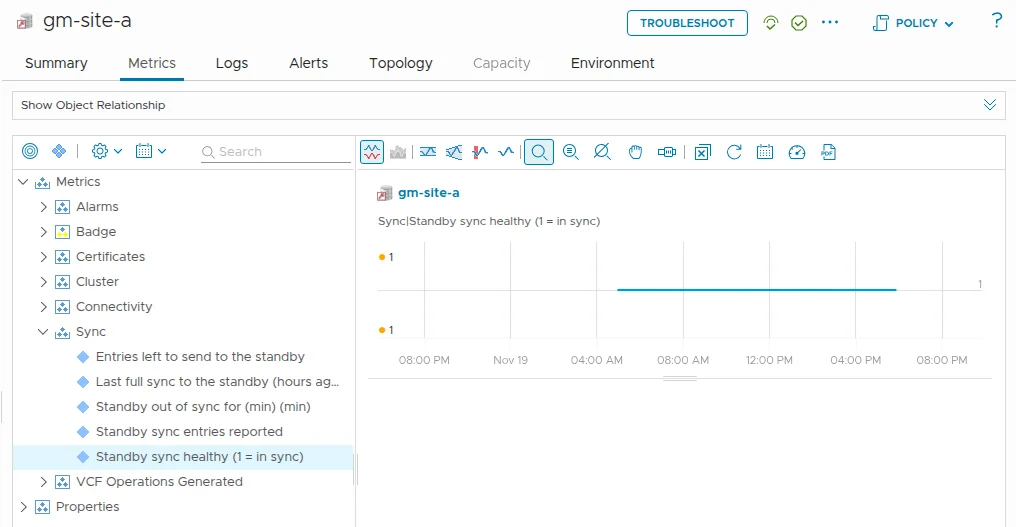
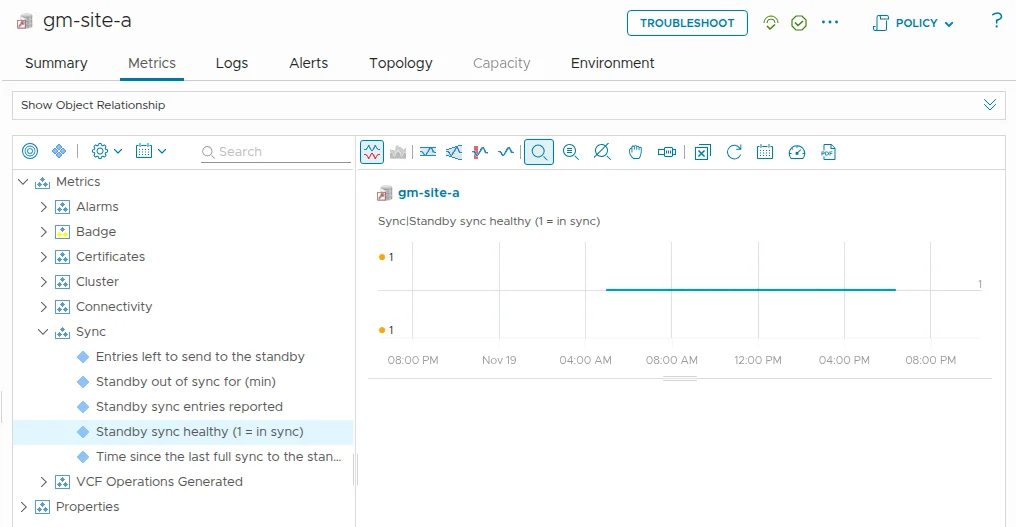
NSX Federation pack posts: version 1.7.4, corrections from the last independent review (EN/FR)
Claude-Session: https://claude.ai/code/session_01SphbqC1vQAcUKnbf7d1FJA

diff --git a/content/posts/nsx-federation-management-pack-install/index.fr.md b/content/posts/nsx-federation-management-pack-install/index.fr.md
@@ -1,7 +1,7 @@
 ---
 title: "Superviser NSX Federation dans VCF Operations, partie 2 : construction, installation et données collectées par le pack"
 date: 2026-11-18
-description: "Partie 2 du management pack NSX Federation pour VCF Operations 9.1.1 : l'adaptateur construit avec l'Integration SDK, l'installation pas à pas avec captures d'écran (registre en HTTPS, approbation du certificat sur le proxy cloud, pack non signé, compte), et ce que le pack supervise sur une fédération de lab à deux emplacements : 72 objets, 444 métriques, 63 définitions d'alerte, quatre groupes personnalisés, trois tableaux de bord, cinq vues et un rapport. L'article couvre aussi un basculement de Global Manager et l'envoi des alertes par e-mail."
+description: "Partie 2 du management pack NSX Federation pour VCF Operations 9.1.1 : l'adaptateur construit avec l'Integration SDK, l'installation pas à pas avec captures d'écran (registre en HTTPS, approbation du certificat sur le proxy cloud, pack non signé, compte), et ce que le pack supervise sur une fédération de lab à deux emplacements : 72 objets, 447 métriques, 63 définitions d'alerte, quatre groupes personnalisés, trois tableaux de bord, cinq vues et un rapport. L'article couvre aussi un basculement de Global Manager et l'envoi des alertes par e-mail."
 summary: "L'adaptateur collecte les données d'une fédération NSX 9.1 à deux emplacements en 10 à 25 secondes. Pour qu'il fonctionne dans VCF Operations 9.1.1, il faut un registre d'images servi en HTTPS, un proxy cloud qui approuve le certificat du registre et le réglage qui autorise un pack non signé. Cet article détaille chaque étape de l'installation avec des captures d'écran, liste ce que supervise le pack (objets, métriques, alertes, groupes, tableaux de bord, vues), teste un basculement de Global Manager et montre comment envoyer les alertes par e-mail."
 tags: ["VCF 9.1.1", "NSX Federation", "VCF Operations", "Management pack", "Integration SDK", "Holodeck"]
 categories: ["Notes"]
@@ -12,7 +12,7 @@ params:
   seoDescription: "Construire et installer un management pack NSX Federation sur mesure dans VCF Operations 9.1.1 : registre HTTPS, approbation du certificat, pack non signé, puis objets, métriques, alertes, groupes, tableaux de bord et vues qu'il fournit."
 ---
 
-La [partie 1](/fr/posts/nsx-federation-management-pack-design/) s'achevait sur une conception, sans une ligne de code. Cet article décrit la construction du pack, son installation dans VCF Operations 9.1.1 avec des captures d'écran, ce que le pack supervise (objets, métriques, alertes, groupes, tableaux de bord, vues), un basculement de Global Manager et l'envoi des alertes par e-mail. Le pack décrit ici est la version 1.7.3, et son code source est sur GitHub : [sorinplaton/vcf-ops-nsx-federation-mp](https://github.com/sorinplaton/vcf-ops-nsx-federation-mp). [docs/FEATURES.md](https://github.com/sorinplaton/vcf-ops-nsx-federation-mp/blob/v1.7.3/docs/FEATURES.md) (en anglais) liste chaque type d'objet, métrique, propriété et alerte du pack, avec la condition et la recommandation de chaque alerte. L'écriture de l'adaptateur a demandé moins de temps que son installation : trois contrôles distincts de VCF Operations séparaient le fichier `.pak` d'une collecte opérationnelle.
+La [partie 1](/fr/posts/nsx-federation-management-pack-design/) s'achevait sur une conception, sans une ligne de code. Cet article décrit la construction du pack, son installation dans VCF Operations 9.1.1 avec des captures d'écran, ce que le pack supervise (objets, métriques, alertes, groupes, tableaux de bord, vues), un basculement de Global Manager et l'envoi des alertes par e-mail. Le pack décrit ici est la version 1.7.4, et son code source est sur GitHub : [sorinplaton/vcf-ops-nsx-federation-mp](https://github.com/sorinplaton/vcf-ops-nsx-federation-mp). [docs/FEATURES.md](https://github.com/sorinplaton/vcf-ops-nsx-federation-mp/blob/v1.7.4/docs/FEATURES.md) (en anglais) liste chaque type d'objet, métrique, propriété et alerte du pack, avec la condition et la recommandation de chaque alerte. L'écriture de l'adaptateur a demandé moins de temps que son installation : trois contrôles distincts de VCF Operations séparaient le fichier `.pak` d'une collecte opérationnelle.
 
 ## Le lab
 
@@ -35,13 +35,13 @@ L'adaptateur tient en deux fichiers Python :
 - `nsxclient.py` : un client REST NSX en lecture seule, avec pagination par curseur, quota d'appels par manager, nouvelle tentative après attente sur les codes HTTP 429 et 503, contrôle du certificat par empreinte SHA-256 et petit cache sur disque pour les données qui changent peu.
 - `adapter.py` : le modèle d'objets, la logique de collecte et les événements.
 
-L'instance d'adaptateur reçoit une ou deux adresses de Global Manager et un seul jeu d'identifiants. Elle découvre les Local Managers à partir du Global Manager et compare le certificat de chacun d'eux à l'empreinte que le Global Manager a déjà enregistrée. Un Global Manager est approuvé d'après le certificat accepté sur le compte dans VCF Operations. Une fois un certificat vérifié, chaque connexion du cycle est liée à son empreinte : les identifiants ne sont donc pas envoyés à un serveur qui présente un autre certificat. Ce contrôle a deux modes : « enforce » arrête la collecte d'un manager dont le certificat ne correspond pas ou pour lequel aucun certificat approuvé n'est enregistré, « report » poursuit la collecte et déclenche une alerte. Le mode par défaut est « enforce » : les certificats des Global Managers doivent être acceptés lorsque le compte valide la connexion, faute de quoi les managers ne sont pas collectés. Le compte du lab a été créé par l'API, n'a aucun certificat accepté et fonctionne en mode « report ». Le compte accepte aussi un jeu d'identifiants distinct pour les Local Managers. Le pack ne fait que lire dans NSX, et un compte en lecture seule suffit. Le compte du lab utilise le compte intégré `audit` de NSX sur les quatre managers et collecte les mêmes objets qu'avec `admin`, sans aucun appel en échec.
+L'instance d'adaptateur reçoit une ou deux adresses de Global Manager et un seul jeu d'identifiants. Elle découvre les Local Managers à partir du Global Manager et compare le certificat de chacun d'eux à l'empreinte que le Global Manager a déjà enregistrée. Un Global Manager est approuvé d'après le certificat accepté sur le compte dans VCF Operations. Une fois un certificat vérifié, chaque connexion du cycle est liée à son empreinte : les identifiants ne sont donc pas envoyés à un serveur qui présente un autre certificat.
 
 Un compte supervise une seule fédération. Un Global Manager de la liste qui répond pour une autre fédération est signalé et écarté, et un paramètre facultatif désigne l'objet fédération lorsque VCF Operations en supervise plusieurs.
 
 Un pack SDK n'est pas autonome. Le fichier `.pak` contient les définitions d'objets et une référence à une image de conteneur. Le proxy cloud récupère cette image dans un registre au démarrage de l'instance d'adaptateur.
 
-`mp-build` construit le pack. Avec une adresse de registre de la forme `host:port`, il a inscrit Docker Hub dans le pack. Un court script réécrit deux valeurs, `REGISTRY` et `REPOSITORY`, dans le fichier `.conf` que contient `adapter.zip` :
+`mp-build` construit le pack. Avec une adresse de registre de la forme `host:port`, il a inscrit Docker Hub dans le pack. Un court script, `tools/repack.py`, réécrit deux valeurs, `REGISTRY` et `REPOSITORY`, dans le fichier `.conf` que contient `adapter.zip` :
 
 ```
 REGISTRY=10.0.6.27:5000
@@ -135,15 +135,17 @@ L'ouverture de session sur l'interface principale (point 2) doit suivre celle su
 
 L'option ne peut pas être désactivée pendant l'installation. Lors d'une mise à niveau, la console d'administration a répondu `Cluster is in PAK installing state` jusqu'à la fin de l'installation. Un script doit donc répéter le dernier appel.
 
-Ces appels sont internes à l'interface : ils ne sont pas pris en charge et peuvent changer à chaque version. Quant à l'option des packs non signés, elle vaut pour toute l'instance ; dans le lab, elle n'est restée activée que le temps de l'envoi.
+Ces appels sont internes à l'interface : ils ne sont pas pris en charge et peuvent changer à chaque version. Quant à l'option des packs non signés, elle vaut pour toute l'instance ; dans le lab, elle n'est restée activée que le temps de l'envoi. Le dépôt contient ces étapes sous la forme des scripts `install/upi.sh` et `install/install_unsigned.sh`.
 
 Après l'installation, le type d'adaptateur `NSXFederation` et la solution `iSDK_NSXFederation` apparaissent dans VCF Operations. Le pack figure, avec sa version, sous « Administration > Integrations > Repository » :
 
-![Administration > Integrations > Repository avec le filtre « Federation » : le pack NSX Federation, en version 1.7.3, avec un compte](/images/nsx-federation-mp/ops-repository-pack.webp)
+![Administration > Integrations > Repository : le pack NSX Federation, en version 1.7.4, avec un compte](/images/nsx-federation-mp/ops-repository-pack.webp)
 
 ### Étape 4 : créer le compte
 
-L'instance d'adaptateur, appelée compte dans l'interface, se crée sur le proxy cloud. Elle reçoit une ou deux adresses de Global Manager et un seul jeu d'identifiants. Avec les deux adresses, le pack suit le rôle actif lorsque les Global Managers basculent. Les autres réglages sont facultatifs : les stratégies de sécurité dont les règles deviennent des objets, la façon dont le pack fonctionne avec l'intégration NSX native (liens et alertes d'alarme, automatiques par défaut), et la suppression des objets qui ont quitté NSX (désactivée par défaut). [docs/OPERATIONS.md](https://github.com/sorinplaton/vcf-ops-nsx-federation-mp/blob/v1.7.3/docs/OPERATIONS.md) (en anglais) décrit chaque réglage.
+L'instance d'adaptateur, appelée compte dans l'interface, se crée sur le proxy cloud. Elle reçoit une ou deux adresses de Global Manager et un seul jeu d'identifiants. Avec les deux adresses, le pack suit le rôle actif lorsque les Global Managers basculent. Les autres réglages sont facultatifs : les stratégies de sécurité dont les règles deviennent des objets, la façon dont le pack fonctionne avec l'intégration NSX native (liens et alertes d'alarme, automatiques par défaut), et la suppression des objets qui ont quitté NSX (désactivée par défaut). [docs/OPERATIONS.md](https://github.com/sorinplaton/vcf-ops-nsx-federation-mp/blob/v1.7.4/docs/OPERATIONS.md) (en anglais) décrit chaque réglage.
+
+À l'enregistrement du compte, valider la connexion et accepter les certificats des Global Managers. Ce contrôle a deux modes : « enforce » arrête la collecte d'un manager dont le certificat ne correspond pas ou pour lequel aucun certificat approuvé n'est enregistré, « report » poursuit la collecte et déclenche une alerte. Le mode par défaut est « enforce » : sans certificat accepté, les managers ne sont pas collectés. Le compte du lab a été créé par l'API, n'a aucun certificat accepté et fonctionne en mode « report ». Le compte accepte aussi un jeu d'identifiants distinct pour les Local Managers. Le pack ne fait que lire dans NSX, et un compte en lecture seule suffit. Le compte du lab utilise le compte intégré `audit` de NSX sur les quatre managers et collecte les mêmes objets qu'avec `admin`, sans aucun appel en échec.
 
 Le registre étant approuvé, le proxy cloud a récupéré l'image au démarrage suivant de l'instance, qui est passée à l'état `STARTED`, puis `DATA_RECEIVING`. L'onglet « Accounts » affiche l'instance avec l'état « Collecting » :
 
@@ -169,11 +171,11 @@ Une modification de la façon dont l'adaptateur identifie un objet crée un nouv
 
 ## Ce que le pack supervise
 
-Cette section donne une vue d'ensemble. La liste complète des objets, des métriques et des alertes se trouve dans [FEATURES.md](https://github.com/sorinplaton/vcf-ops-nsx-federation-mp/blob/v1.7.3/docs/FEATURES.md) (en anglais).
+Cette section donne une vue d'ensemble. La liste complète des objets, des métriques et des alertes se trouve dans [FEATURES.md](https://github.com/sorinplaton/vcf-ops-nsx-federation-mp/blob/v1.7.4/docs/FEATURES.md) (en anglais).
 
 ### Objets
 
-Le pack définit 15 types d'objets. Dans le lab, il crée 72 objets de 14 types. Le quinzième type, la règle de pare-feu globale, est optionnel.
+Le pack définit 15 types d'objets. Dans le lab, il crée 72 objets de 14 types. Le quinzième type, la règle de pare-feu globale, s'active stratégie par stratégie et est resté désactivé pour cette installation.
 
 | Type d'objet | Nombre dans le lab | Exemples de données collectées |
 | --- | --- | --- |
@@ -192,11 +194,9 @@ Le pack définit 15 types d'objets. Dans le lab, il crée 72 objets de 14 types.
 | Stratégie de sécurité globale | 1 | Portée, réalisation, nombre total de règles et de règles désactivées |
 | Objet étendu sur un emplacement (réalisation) | 14 | Réalisé ou non, libellé de l'état |
 
-Les objets règle de pare-feu globale s'activent stratégie par stratégie ; ils sont restés désactivés pour cette installation.
-
 Le pack rend compte de son propre fonctionnement sur l'objet fédération : appels effectués, appels bridés, erreurs, et épuisement éventuel du quota d'appels d'un manager.
 
-Un nœud Edge et ses tunnels sont identifiés par l'emplacement et le nom du nœud : un nœud Edge redéployé conserve ainsi son objet et son historique.
+Un nœud Edge est identifié par l'emplacement et le nom du nœud, et chacun de ses tunnels par ce nœud et ses deux adresses RTEP : un nœud Edge redéployé conserve ainsi ses objets et leur historique.
 
 Dans l'inventaire, les types d'objets forment une arborescence et chaque objet dispose d'une page de résumé. La capture ci-dessous montre un emplacement :
 
@@ -214,7 +214,7 @@ Le pack fournit quatre groupes personnalisés (custom groups) : tous les objets
 
 ### Métriques
 
-Le pack envoie 444 métriques par cycle dans le lab, une fois les taux disponibles.
+Le pack envoie 447 métriques par cycle dans le lab, une fois les taux disponibles.
 
 Les métriques sont rangées en groupes, comme dans les intégrations natives : Sync, Connectivity, Certificates, Alarms, Rates, etc., soit 17 groupes au total. L'arborescence des métriques d'un objet reste ainsi assez courte pour se lire d'un coup d'œil. La clé d'une métrique contient son groupe, par exemple `sync|standby_in_sync`.
 
@@ -232,7 +232,7 @@ Sept valeurs portent sur toute la fédération, sur l'objet fédération : empl
 
 Chaque emplacement porte aussi ce que la page Location Manager de NSX affiche pour lui : l'état de ses trois flux de réplication avec le Global Manager, le moment où le Global Manager l'a vu pour la dernière fois, le temps d'aller-retour lorsque NSX en indique un, et l'état de son onboarding. La référence de l'API NSX ne mentionne pas l'appel utilisé par cette page. Il a été relevé dans les requêtes de l'interface NSX : `GET /api/v1/federation/replication/gm/sites/<site-id>/status` sur le Global Manager actif. Dans le lab, les trois flux indiquent SYNCHRONIZING et le temps d'aller-retour est vide.
 
-Le tableau ci-dessous donne la couverture de chaque type d'objet. La colonne Métriques compte les clés de métrique définies pour le type. Tous les objets n'envoient pas toutes les clés (seules les réalisations de stratégie portent des compteurs, par exemple) : la colonne multipliée par le nombre d'objets ne donne donc pas 444.
+Le tableau ci-dessous donne la couverture de chaque type d'objet. La colonne Métriques compte les clés de métrique définies pour le type. Tous les objets n'envoient pas toutes les clés (seules les réalisations de stratégie portent des compteurs, par exemple) : la colonne multipliée par le nombre d'objets ne donne donc pas 447.
 
 | Type d'objet | Métriques | Définitions d'alerte | Tableau de bord |
 | --- | --- | --- | --- |
@@ -338,7 +338,7 @@ Inter-site Connectivity montre les taux d'un tunnel RTEP :
 
 Stretched Objects, avec le segment fed-stretched sélectionné :
 
-![Le tableau de bord Stretched Objects : les passerelles, segments et stratégies étendus, la réalisation par emplacement, ainsi que les valeurs clés, les propriétés et les objets associés du segment fed-stretched](/images/nsx-federation-mp/ops-dashboard-stretched.webp)
+![Le tableau de bord Stretched Objects : les passerelles, segments et stratégies étendus, la réalisation par emplacement, ainsi que les valeurs clés et les propriétés du segment fed-stretched](/images/nsx-federation-mp/ops-dashboard-stretched.webp)
 
 ### Vues et rapport
 
@@ -439,9 +439,9 @@ Le même appel en PUT, avec l'objet complet, a été refusé avec `Global Manage
 | 07:44:35 | Retour terminé | |
 | 07:52 | | gm-site-a de nouveau actif, secours synchronisé |
 
-Chaque basculement a duré environ deux minutes. Le pack a suivi le rôle actif dès son premier cycle après le changement, sans modification du compte, puisque celui-ci contient les deux adresses. Aucune alerte ne s'est ouverte ni fermée pendant le test. Pendant environ une minute de la vérification préalable, le nouveau Global Manager actif a présenté les deux Global Managers comme actifs. Le pack a tout de même compté un seul Global Manager actif et n'a levé aucune alerte de split-brain.
+Chaque basculement a duré environ deux minutes. Le pack a suivi le rôle actif dès son premier cycle après le changement, sans modification du compte, puisque celui-ci contient les deux adresses. Aucune alerte ne s'est ouverte ni fermée pendant le test. Pendant environ une minute, au cours de la vérification préalable, le nouveau Global Manager actif a présenté les deux Global Managers comme actifs. Le pack a tout de même compté un seul Global Manager actif et n'a levé aucune alerte de split-brain.
 
-Après un basculement, l'ancien Global Manager actif devient le Global Manager de secours. Chaque secours porte sa propre valeur de synchronisation, telle que le Global Manager actif la rapporte ; un Global Manager garde donc une valeur à jour dans les deux rôles.
+Après un basculement, l'ancien Global Manager actif devient le secours et porte sa propre valeur de synchronisation, comme le décrit la section « Le Global Manager de secours ».
 
 Un basculement planifié ne laisse jamais la fédération sans Global Manager actif : les alertes « aucun Global Manager actif » et « Global Manager injoignable » ne se sont donc pas déclenchées, comme prévu.
 
@@ -523,8 +523,8 @@ Les 1 253 définitions d'alerte et 2 044 définitions de symptôme présentes da
 ## Sources
 
 - Lab : Holodeck VCF 9.1.1 imbriqué, NSX 9.1.1.0 (Local Managers) et 9.1.1.0100 (Global Managers), VCF Operations 9.1.1.0 build 25795063. Construction, installation et tests du 17 au 19 novembre 2026.
-- Code source du pack : [github.com/sorinplaton/vcf-ops-nsx-federation-mp](https://github.com/sorinplaton/vcf-ops-nsx-federation-mp), tag v1.7.3
-- Objets, métriques et alertes de la version 1.7.3 : [docs/FEATURES.md](https://github.com/sorinplaton/vcf-ops-nsx-federation-mp/blob/v1.7.3/docs/FEATURES.md) (en anglais) ; réglages du compte et dimensionnement : [docs/OPERATIONS.md](https://github.com/sorinplaton/vcf-ops-nsx-federation-mp/blob/v1.7.3/docs/OPERATIONS.md) (en anglais)
+- Code source du pack : [github.com/sorinplaton/vcf-ops-nsx-federation-mp](https://github.com/sorinplaton/vcf-ops-nsx-federation-mp), tag v1.7.4
+- Objets, métriques et alertes de la version 1.7.4 : [docs/FEATURES.md](https://github.com/sorinplaton/vcf-ops-nsx-federation-mp/blob/v1.7.4/docs/FEATURES.md) (en anglais) ; réglages du compte et dimensionnement : [docs/OPERATIONS.md](https://github.com/sorinplaton/vcf-ops-nsx-federation-mp/blob/v1.7.4/docs/OPERATIONS.md) (en anglais)
 - [VCF Operations Integration SDK](https://vmware.github.io/vmware-vcf-operations-integration-sdk/introduction)
 - KB Broadcom [415279](https://knowledge.broadcom.com/external/article/415279/error-no-signature-found-on-pak-file-wh.html) : « No signature found on PAK file » lors de l'installation d'un management pack
 - [Docker : verify repository client with certificates](https://docs.docker.com/engine/security/certificates/)

diff --git a/content/posts/nsx-federation-management-pack-install/index.md b/content/posts/nsx-federation-management-pack-install/index.md
@@ -1,7 +1,7 @@
 ---
 title: "Monitoring NSX Federation in VCF Operations, part 2: building, installing and what the pack captures"
 date: 2026-11-18
-description: "Part 2 of the NSX Federation management pack for VCF Operations 9.1.1: the adapter built with the Integration SDK, the install step by step with screenshots (HTTPS registry, certificate trust on the cloud proxy, unsigned pack, account), and what the pack monitors on a two-location lab federation: 72 objects, 444 metrics, 63 alert definitions, four custom groups, three dashboards, five views and a report. It also covers a Global Manager switchover and how to send the alerts by email."
+description: "Part 2 of the NSX Federation management pack for VCF Operations 9.1.1: the adapter built with the Integration SDK, the install step by step with screenshots (HTTPS registry, certificate trust on the cloud proxy, unsigned pack, account), and what the pack monitors on a two-location lab federation: 72 objects, 447 metrics, 63 alert definitions, four custom groups, three dashboards, five views and a report. It also covers a Global Manager switchover and how to send the alerts by email."
 summary: "The adapter collects a two-location NSX 9.1 Federation in 10 to 25 seconds. Running it inside VCF Operations 9.1.1 takes an image registry served over HTTPS, a cloud proxy that trusts the registry certificate, and the setting that allows an unsigned pack. This post documents each install step with screenshots, lists what the pack monitors (objects, metrics, alerts, groups, dashboards, views), tests a Global Manager switchover, and shows how to send the alerts by email."
 tags: ["VCF 9.1.1", "NSX Federation", "VCF Operations", "Management pack", "Integration SDK", "Holodeck"]
 categories: ["Field notes"]
@@ -12,7 +12,7 @@ params:
   seoDescription: "Building and installing a custom NSX Federation management pack in VCF Operations 9.1.1: HTTPS registry, certificate trust, unsigned pack, and the objects, metrics, alerts, groups, dashboards and views it provides."
 ---
 
-[Part 1](/posts/nsx-federation-management-pack-design/) ended with a design and no code. This post covers the build, the install in VCF Operations 9.1.1 with screenshots, what the pack monitors (objects, metrics, alerts, groups, dashboards, views), a Global Manager switchover, and how to send the alerts by email. The pack described here is version 1.7.3, and its source is on GitHub: [sorinplaton/vcf-ops-nsx-federation-mp](https://github.com/sorinplaton/vcf-ops-nsx-federation-mp). [docs/FEATURES.md](https://github.com/sorinplaton/vcf-ops-nsx-federation-mp/blob/v1.7.3/docs/FEATURES.md) lists every object type, metric, property and alert of the pack, with the condition and the recommendation of each alert. The adapter itself took less time than the install. Three separate checks in VCF Operations stood between the `.pak` file and a running collector.
+[Part 1](/posts/nsx-federation-management-pack-design/) ended with a design and no code. This post covers the build, the install in VCF Operations 9.1.1 with screenshots, what the pack monitors (objects, metrics, alerts, groups, dashboards, views), a Global Manager switchover, and how to send the alerts by email. The pack described here is version 1.7.4, and its source is on GitHub: [sorinplaton/vcf-ops-nsx-federation-mp](https://github.com/sorinplaton/vcf-ops-nsx-federation-mp). [docs/FEATURES.md](https://github.com/sorinplaton/vcf-ops-nsx-federation-mp/blob/v1.7.4/docs/FEATURES.md) lists every object type, metric, property and alert of the pack, with the condition and the recommendation of each alert. The adapter itself took less time than the install. Three separate checks in VCF Operations stood between the `.pak` file and a running collector.
 
 ## The lab
 
@@ -35,13 +35,13 @@ The adapter is two Python files:
 - `nsxclient.py`: a read-only NSX REST client with cursor paging, a call budget per manager, back-off on HTTP 429 and 503, a certificate check by SHA-256 fingerprint, and a small on-disk cache for slow-moving data.
 - `adapter.py`: the object model, the collection logic and the events.
 
-The adapter instance takes one or two Global Manager addresses and one credential. It discovers the Local Managers from the Global Manager, and it compares the certificate of each Local Manager with the thumbprint the Global Manager already holds for it. A Global Manager is trusted by the certificate accepted on the account in VCF Operations. Once a certificate is checked, every connection of the cycle is bound to its fingerprint, so the credentials are not sent to a server that presents another certificate. The check has two modes: "enforce" stops the collection of a manager whose certificate does not match or that has no trusted certificate on record, and "report" collects and raises an alert. The default is "enforce": accept the Global Manager certificates when the account validates the connection, or the managers are not collected. The lab account was created through the API, has no accepted certificate, and runs in "report". The account also accepts a separate credential for the Local Managers. The pack only reads from NSX, so a read-only account is enough. The lab account uses NSX's built-in `audit` account on all four managers and collects the same objects as `admin`, with no failed call.
+The adapter instance takes one or two Global Manager addresses and one credential. It discovers the Local Managers from the Global Manager, and it compares the certificate of each Local Manager with the thumbprint the Global Manager already holds for it. A Global Manager is trusted by the certificate accepted on the account in VCF Operations. Once a certificate is checked, every connection of the cycle is bound to its fingerprint, so the credentials are not sent to a server that presents another certificate.
 
 One account monitors one federation. A listed Global Manager that answers for another federation is reported and left out, and an optional setting names the federation object when VCF Operations monitors several.
 
 An SDK pack is not self-contained. The `.pak` file carries the object definitions and a pointer to a container image. The cloud proxy pulls that image from a registry when the adapter instance starts.
 
-`mp-build` builds the pack. Given a registry address in `host:port` form, it wrote Docker Hub into the pack. A short script rewrites two values, `REGISTRY` and `REPOSITORY`, in the `.conf` file inside `adapter.zip`:
+`mp-build` builds the pack. Given a registry address in `host:port` form, it wrote Docker Hub into the pack. A short script, `tools/repack.py`, rewrites two values, `REGISTRY` and `REPOSITORY`, in the `.conf` file inside `adapter.zip`:
 
 ```
 REGISTRY=10.0.6.27:5000
@@ -135,15 +135,17 @@ The product UI login (item 2) has to come after the admin console login (item 1)
 
 The switch cannot be turned off while the install runs. During an upgrade the admin console answered `Cluster is in PAK installing state` until the install had finished. A script has to retry the last call.
 
-These calls are internal to the UI. They are unsupported and can change with any release. The switch applies to the whole instance. In the lab it was on only for the duration of the upload.
+These calls are internal to the UI. They are unsupported and can change with any release. The switch applies to the whole instance. In the lab it was on only for the duration of the upload. The repository holds these steps as `install/upi.sh` and `install/install_unsigned.sh`.
 
 After the install, the adapter kind `NSXFederation` and the solution `iSDK_NSXFederation` appear in VCF Operations. The pack shows under Administration, Integrations, Repository with its version:
 
-![Administration, Integrations, Repository filtered on "Federation": the NSX Federation pack, version 1.7.3, with one account](/images/nsx-federation-mp/ops-repository-pack.webp)
+![Administration, Integrations, Repository: the NSX Federation pack, version 1.7.4, with one account](/images/nsx-federation-mp/ops-repository-pack.webp)
 
 ### Step 4: create the account
 
-The adapter instance, called an account in the UI, is created on the cloud proxy. It takes one or two Global Manager addresses and one credential. With both addresses, the pack follows the active role when the Global Managers switch over. The other settings are optional: the security policies whose rules become objects, how the pack works with the built-in NSX integration (links and alarm alerts, both automatic by default), and the deletion of objects that left NSX (off by default). [docs/OPERATIONS.md](https://github.com/sorinplaton/vcf-ops-nsx-federation-mp/blob/v1.7.3/docs/OPERATIONS.md) describes each setting.
+The adapter instance, called an account in the UI, is created on the cloud proxy. It takes one or two Global Manager addresses and one credential. With both addresses, the pack follows the active role when the Global Managers switch over. The other settings are optional: the security policies whose rules become objects, how the pack works with the built-in NSX integration (links and alarm alerts, both automatic by default), and the deletion of objects that left NSX (off by default). [docs/OPERATIONS.md](https://github.com/sorinplaton/vcf-ops-nsx-federation-mp/blob/v1.7.4/docs/OPERATIONS.md) describes each setting.
+
+Validate the connection and accept the Global Manager certificates when the account is saved. The check has two modes: "enforce" stops the collection of a manager whose certificate does not match or that has no trusted certificate on record, and "report" collects and raises an alert. The default is "enforce": without an accepted certificate the managers are not collected. The lab account was created through the API, has no accepted certificate, and runs in "report". The account also accepts a separate credential for the Local Managers. The pack only reads from NSX, so a read-only account is enough. The lab account uses NSX's built-in `audit` account on all four managers and collects the same objects as `admin`, with no failed call.
 
 With the registry trusted, the cloud proxy pulled the image on the next start of the instance, and the instance reached `STARTED`, then `DATA_RECEIVING`. The Accounts tab shows the instance as "Collecting":
 
@@ -169,11 +171,11 @@ A change in how the adapter identifies an object creates a new object. The old o
 
 ## What the pack monitors
 
-This section gives an overview. The complete list of objects, metrics and alerts is in [FEATURES.md](https://github.com/sorinplaton/vcf-ops-nsx-federation-mp/blob/v1.7.3/docs/FEATURES.md).
+This section gives an overview. The complete list of objects, metrics and alerts is in [FEATURES.md](https://github.com/sorinplaton/vcf-ops-nsx-federation-mp/blob/v1.7.4/docs/FEATURES.md).
 
 ### Objects
 
-The pack defines 15 object types. In the lab it creates 72 objects of 14 types. The fifteenth type, the global firewall rule, is opt-in.
+The pack defines 15 object types. In the lab it creates 72 objects of 14 types. The fifteenth type, the global firewall rule, is opt-in per policy and was left off for this install.
 
 | Object type | Count in the lab | Examples of what is collected |
 | --- | --- | --- |
@@ -192,11 +194,9 @@ The pack defines 15 object types. In the lab it creates 72 objects of 14 types. 
 | Global security policy | 1 | Span, realization, rules total and disabled |
 | Stretched object at a location (realization) | 14 | Realized or not, status text |
 
-Global firewall rule objects are opt-in per policy and were left off for this install.
-
 The pack reports its own health on the federation object: calls made, calls throttled, errors, and whether a manager ran out of its call budget.
 
-An edge node and its tunnels are identified by location and node name, so a redeployed edge keeps its object and its history.
+An edge node is identified by location and node name, and each of its tunnels by that node and its two RTEP addresses, so a redeployed edge keeps its objects and their history.
 
 In the inventory, the object types sit in a tree and each object has a summary page. The screenshot below shows a location:
 
@@ -214,7 +214,7 @@ Four custom groups come with the pack: all objects of the pack (72 in the lab), 
 
 ### Metrics
 
-The pack sends 444 metrics per cycle in the lab once the rates are available.
+The pack sends 447 metrics per cycle in the lab once the rates are available.
 
 The metrics sit in groups, as in the built-in integrations: Sync, Connectivity, Certificates, Alarms, Rates and so on, 17 groups in all. The metric tree of an object stays short enough to read. The key of a metric carries its group, `sync|standby_in_sync` for example.
 
@@ -232,7 +232,7 @@ Seven figures cover the whole federation, on the federation object: locations he
 
 Each location also carries what the Location Manager page of NSX shows for it: the state of its three replication flows with the Global Manager, when the Global Manager last saw it, the round-trip time when NSX reports one, and its onboarding status. The NSX API reference does not list the call behind that page. It was read from the requests of the NSX UI: `GET /api/v1/federation/replication/gm/sites/<site-id>/status` on the active Global Manager. In the lab the three flows read SYNCHRONIZING and the round-trip time is empty.
 
-The table below gives the coverage of each object type. The Metrics column counts the metric keys defined for the type. Not every object sends every key (only policy realizations carry counters, for example), so the column multiplied by the object counts does not give 444.
+The table below gives the coverage of each object type. The Metrics column counts the metric keys defined for the type. Not every object sends every key (only policy realizations carry counters, for example), so the column multiplied by the object counts does not give 447.
 
 | Object type | Metrics | Alert definitions | Dashboard |
 | --- | --- | --- | --- |
@@ -338,7 +338,7 @@ Inter-site Connectivity shows the rates of one RTEP tunnel:
 
 Stretched Objects, with the segment fed-stretched selected:
 
-![The Stretched Objects dashboard: the stretched gateways, segments and policies, the realization per location, and the key values, properties and related objects of segment fed-stretched](/images/nsx-federation-mp/ops-dashboard-stretched.webp)
+![The Stretched Objects dashboard: the stretched gateways, segments and policies, the realization per location, and the key values and properties of segment fed-stretched](/images/nsx-federation-mp/ops-dashboard-stretched.webp)
 
 ### Views and a report
 
@@ -441,7 +441,7 @@ The same call as a PUT with the full object was refused with `Global Manager can
 
 Each switchover took about two minutes. The pack followed the active role in its first cycle after the change, with no edit to the account, because the account lists both addresses. No alert opened or closed during the test. For about a minute during the precheck, the new active Global Manager listed both Global Managers as active. The pack still counted one active Global Manager and raised no split-brain alert.
 
-After a switchover the former active Global Manager is a standby. Each standby carries its own sync value, as the active one reports it, so a Global Manager keeps a current value in either role.
+After a switchover the former active Global Manager is a standby and carries its own sync value, as described under The standby Global Manager.
 
 A planned switchover never leaves the federation without an active Global Manager, so the alerts "no active Global Manager" and "Global Manager not reachable" did not fire, as expected.
 
@@ -523,8 +523,8 @@ The 1,253 alert definitions and 2,044 symptom definitions on the lab's VCF Opera
 ## Sources
 
 - Lab: nested VCF 9.1.1 Holodeck, NSX 9.1.1.0 (Local Managers) and 9.1.1.0100 (Global Managers), VCF Operations 9.1.1.0 build 25795063. Build, install and tests from 17 to 19 November 2026.
-- Source of the pack: [github.com/sorinplaton/vcf-ops-nsx-federation-mp](https://github.com/sorinplaton/vcf-ops-nsx-federation-mp), tag v1.7.3
-- Objects, metrics and alerts of version 1.7.3: [docs/FEATURES.md](https://github.com/sorinplaton/vcf-ops-nsx-federation-mp/blob/v1.7.3/docs/FEATURES.md); account settings and sizing: [docs/OPERATIONS.md](https://github.com/sorinplaton/vcf-ops-nsx-federation-mp/blob/v1.7.3/docs/OPERATIONS.md)
+- Source of the pack: [github.com/sorinplaton/vcf-ops-nsx-federation-mp](https://github.com/sorinplaton/vcf-ops-nsx-federation-mp), tag v1.7.4
+- Objects, metrics and alerts of version 1.7.4: [docs/FEATURES.md](https://github.com/sorinplaton/vcf-ops-nsx-federation-mp/blob/v1.7.4/docs/FEATURES.md); account settings and sizing: [docs/OPERATIONS.md](https://github.com/sorinplaton/vcf-ops-nsx-federation-mp/blob/v1.7.4/docs/OPERATIONS.md)
 - [VCF Operations Integration SDK](https://vmware.github.io/vmware-vcf-operations-integration-sdk/introduction)
 - Broadcom KB [415279](https://knowledge.broadcom.com/external/article/415279/error-no-signature-found-on-pak-file-wh.html): "No signature found on PAK file" while installing a management pack
 - [Docker: verify repository client with certificates](https://docs.docker.com/engine/security/certificates/)

diff --git a/content/posts/nsx-federation-management-pack-design/index.md b/content/posts/nsx-federation-management-pack-design/index.md
@@ -159,7 +159,7 @@ The lab has two locations and one Global Manager node. The target is a pack a la
 4. **Rules as objects do not scale.** Thousands of rules with four counters each, across twenty locations, give mostly zeros. The pack reports policy-level totals by default and creates rule objects only on request.
 5. **Budget the API calls.** One realization call per stretched object does not fit a 5-minute cycle at scale, and NSX limits each client (100 requests per second and 40 concurrent by default). Collection has to run per Local Manager in parallel, with slower cycles for inventory than for status.
 6. **Design against alert storms.** One lost location would raise the location alert, every tunnel, every BGP session and every stretched object. The alerts need a root-cause order and an awareness of maintenance windows.
-7. **"Seconds since the last full sync" is the wrong signal.** The first draft planned that metric. A healthy federation runs on delta sync, and a full sync is the exception. The useful signals are sync status, queue occupancy and full-sync failures.
+7. **"Seconds since the last full sync" is the wrong signal.** The first draft planned that metric. A healthy federation runs on delta sync, and a full sync is the exception. The useful signals are sync status, queue occupancy and full-sync failures. As built, the pack keeps the age of the last full sync as a metric, with no alert, and alerts on sync status and full-sync failures.
 8. **The pack has to monitor itself.** It reports its collection time, API call count and last success per location, so that "no data" is never read as "healthy".
 
 One caution: twenty locations may be more than NSX 9.1 Federation supports. That has to be checked against the configuration maximums before the scale targets are written down.
@@ -177,7 +177,7 @@ The cost is on the build side. An SDK adapter is a container image, so the build
 - Build the collector core against the lab, with a mock for the cases the lab cannot show: a standby Global Manager, a switchover, twenty locations.
 - Find the latency API and a way to read the host firewall state.
 
-[Part 2](/posts/nsx-federation-management-pack-install/) covers the build, the install and the first objects in VCF Operations.
+[Part 2](/posts/nsx-federation-management-pack-install/) covers the build, the install and what the pack monitors.
 
 ## Sources
 
